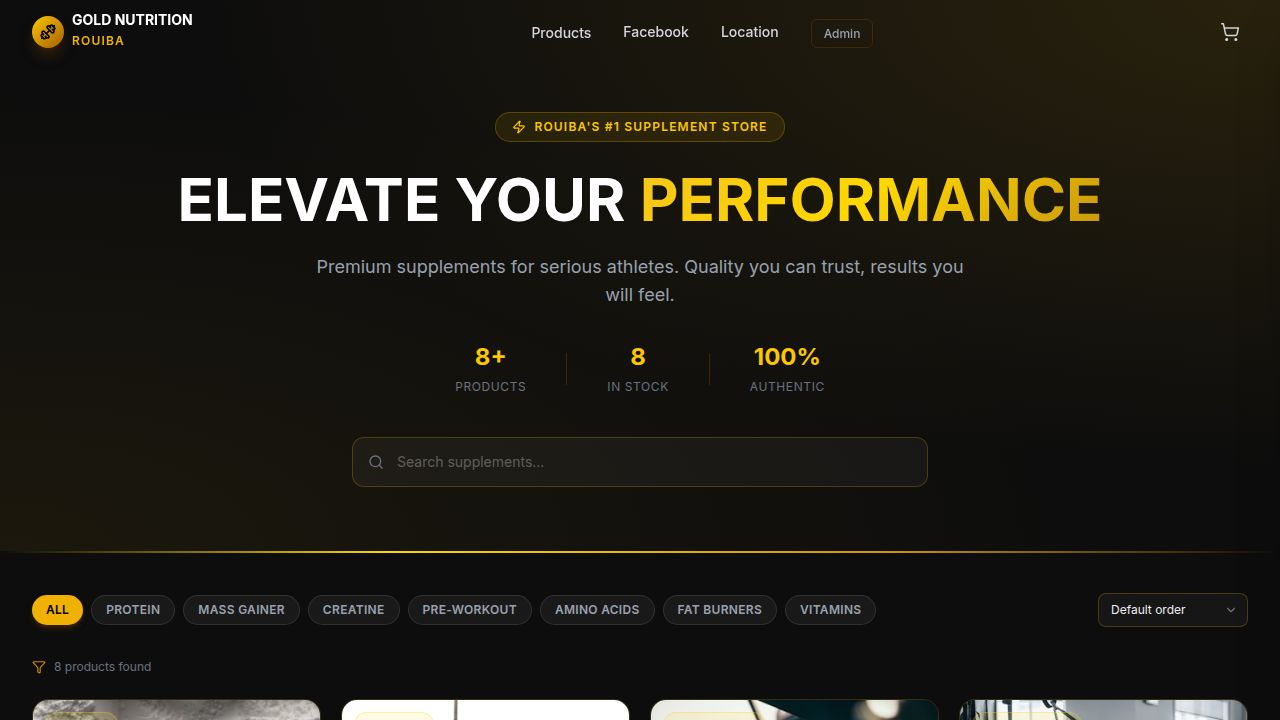
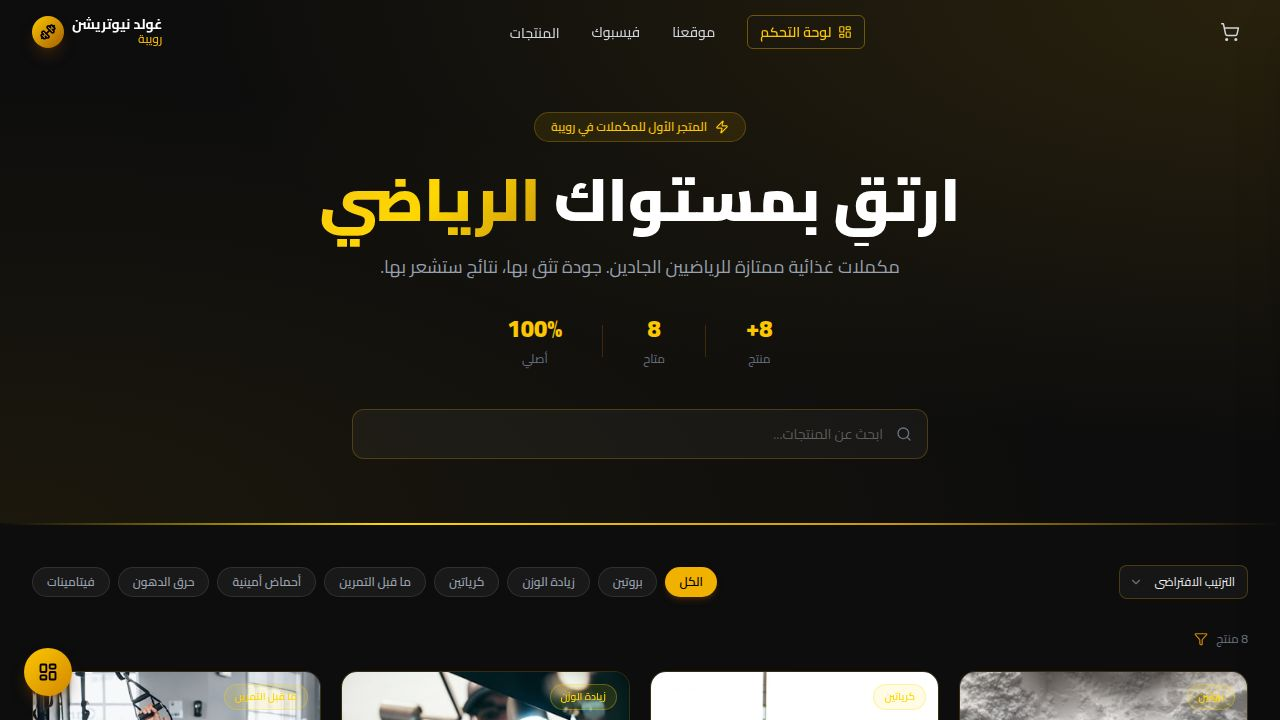
Update store name to French and modify product display
Translate the store name in the title and logo to French.

Replit-Commit-Author: Agent
Replit-Commit-Session-Id: 1e2ff33a-bd37-42be-908b-a0256b36fae5
Replit-Commit-Checkpoint-Type: full_checkpoint
Replit-Commit-Event-Id: f82c3dda-2d41-4ba8-aa6a-7cd6e3d129c9
Replit-Commit-Screenshot-Url: https://storage.googleapis.com/screenshot-production-us-central1/54be373d-f7ee-444a-91c0-206ca5fdd6aa/1e2ff33a-bd37-42be-908b-a0256b36fae5/joiB2JY
Replit-Helium-Checkpoint-Created: true

diff --git a/artifacts/gold-nutrition/public/classic/index.html b/artifacts/gold-nutrition/public/classic/index.html
@@ -178,8 +178,8 @@
       <!-- الشعار (يمين) -->
       <a href="#" class="flex items-center gap-2 group">
         <div class="text-right">
-          <span class="font-black text-white text-sm leading-none block">غولد نيوتريشن</span>
-          <span class="text-yellow-500 text-[10px] font-semibold tracking-widest block">رويبة</span>
+          <span class="font-black text-white text-sm leading-none block">Gold Nutrition</span>
+          <span class="text-yellow-500 text-[10px] font-semibold tracking-widest block">Rouiba</span>
         </div>
         <div class="w-8 h-8 rounded-full bg-gradient-to-br from-yellow-400 to-yellow-700 flex items-center justify-center shadow-lg shadow-yellow-900/40 group-hover:shadow-yellow-500/30 transition-shadow flex-shrink-0">
           <svg class="w-4 h-4 text-black" fill="none" stroke="currentColor" stroke-width="2.5" viewBox="0 0 24 24">
@@ -313,8 +313,8 @@
             </svg>
           </div>
           <div>
-            <span class="font-black text-white text-sm block">غولد نيوتريشن</span>
-            <span class="text-yellow-500 text-xs font-semibold block">رويبة</span>
+            <span class="font-black text-white text-sm block">Gold Nutrition</span>
+            <span class="text-yellow-500 text-xs font-semibold block">Rouiba</span>
           </div>
         </div>
         <p class="text-gray-500 text-sm leading-relaxed">متجرك الموثوق للمكملات الغذائية في رويبة.</p>

diff --git a/artifacts/gold-nutrition/index.html b/artifacts/gold-nutrition/index.html
@@ -3,7 +3,7 @@
   <head>
     <meta charset="UTF-8" />
     <meta name="viewport" content="width=device-width, initial-scale=1.0, maximum-scale=1" />
-    <title>غولد نيوتريشن رويبة</title>
+    <title>Gold Nutrition Rouiba </title>
     <link rel="icon" type="image/svg+xml" href="/favicon.svg" />
     <link rel="preconnect" href="https://fonts.googleapis.com">
     <link rel="preconnect" href="https://fonts.gstatic.com" crossorigin>